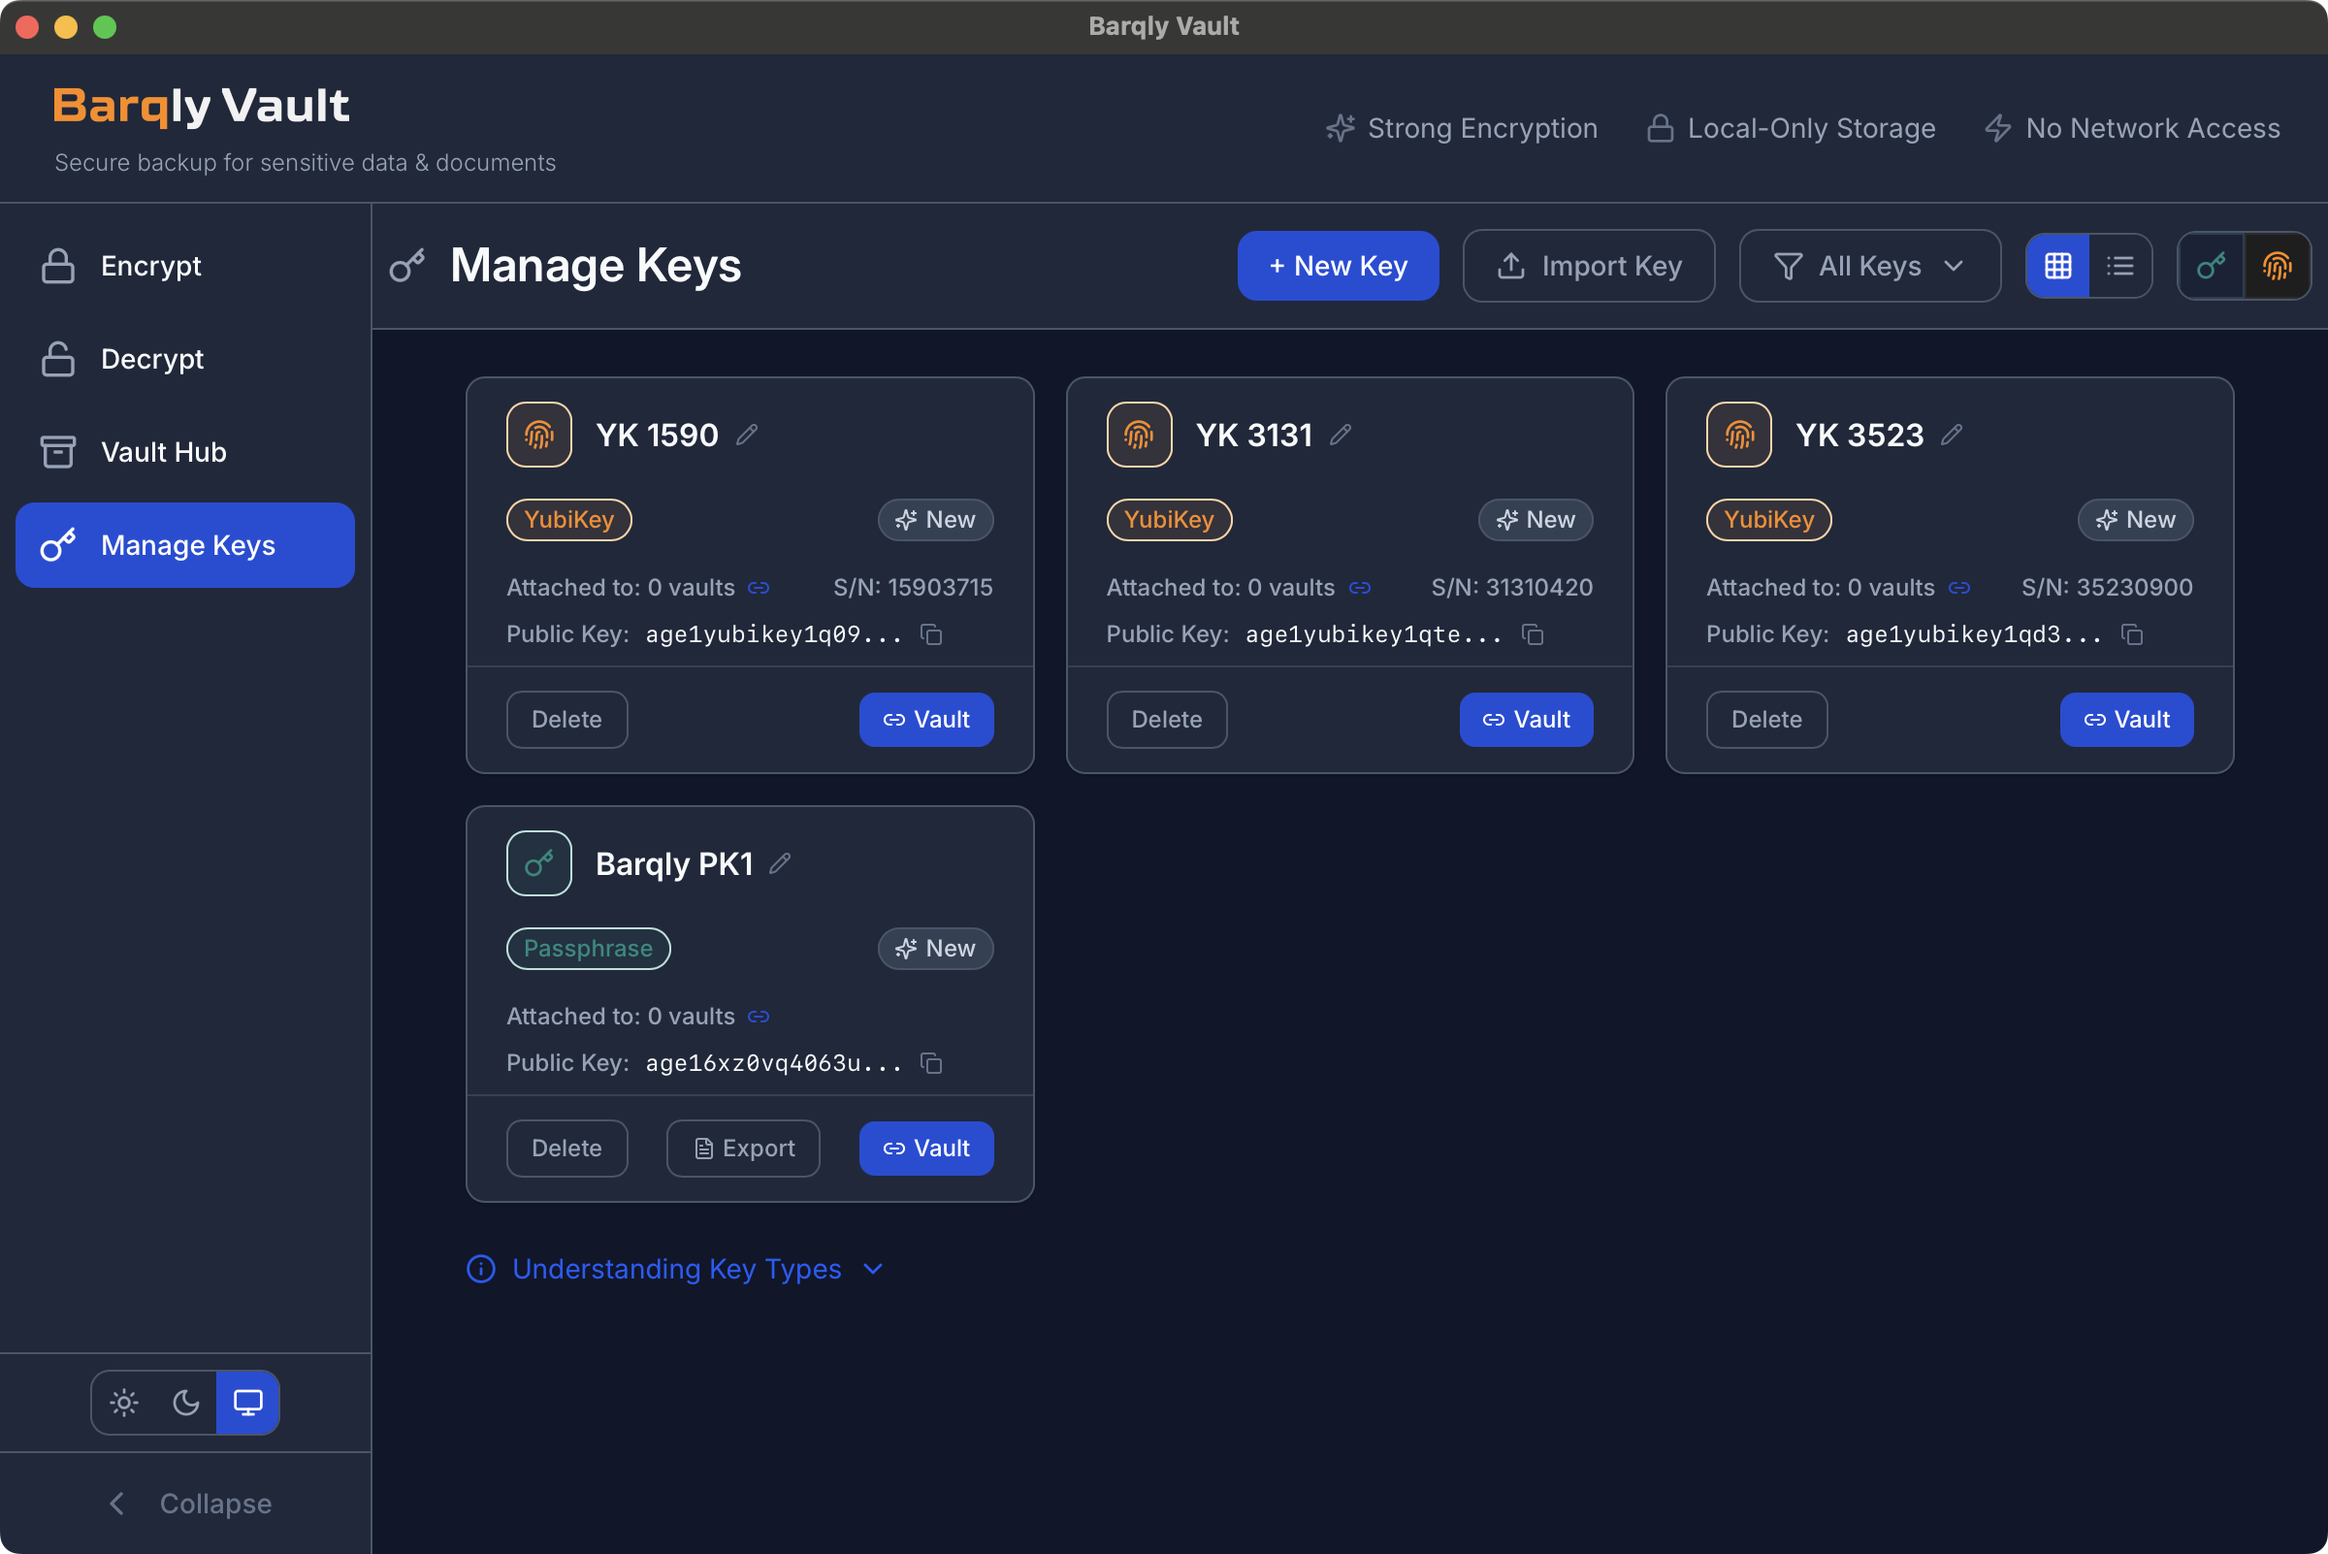
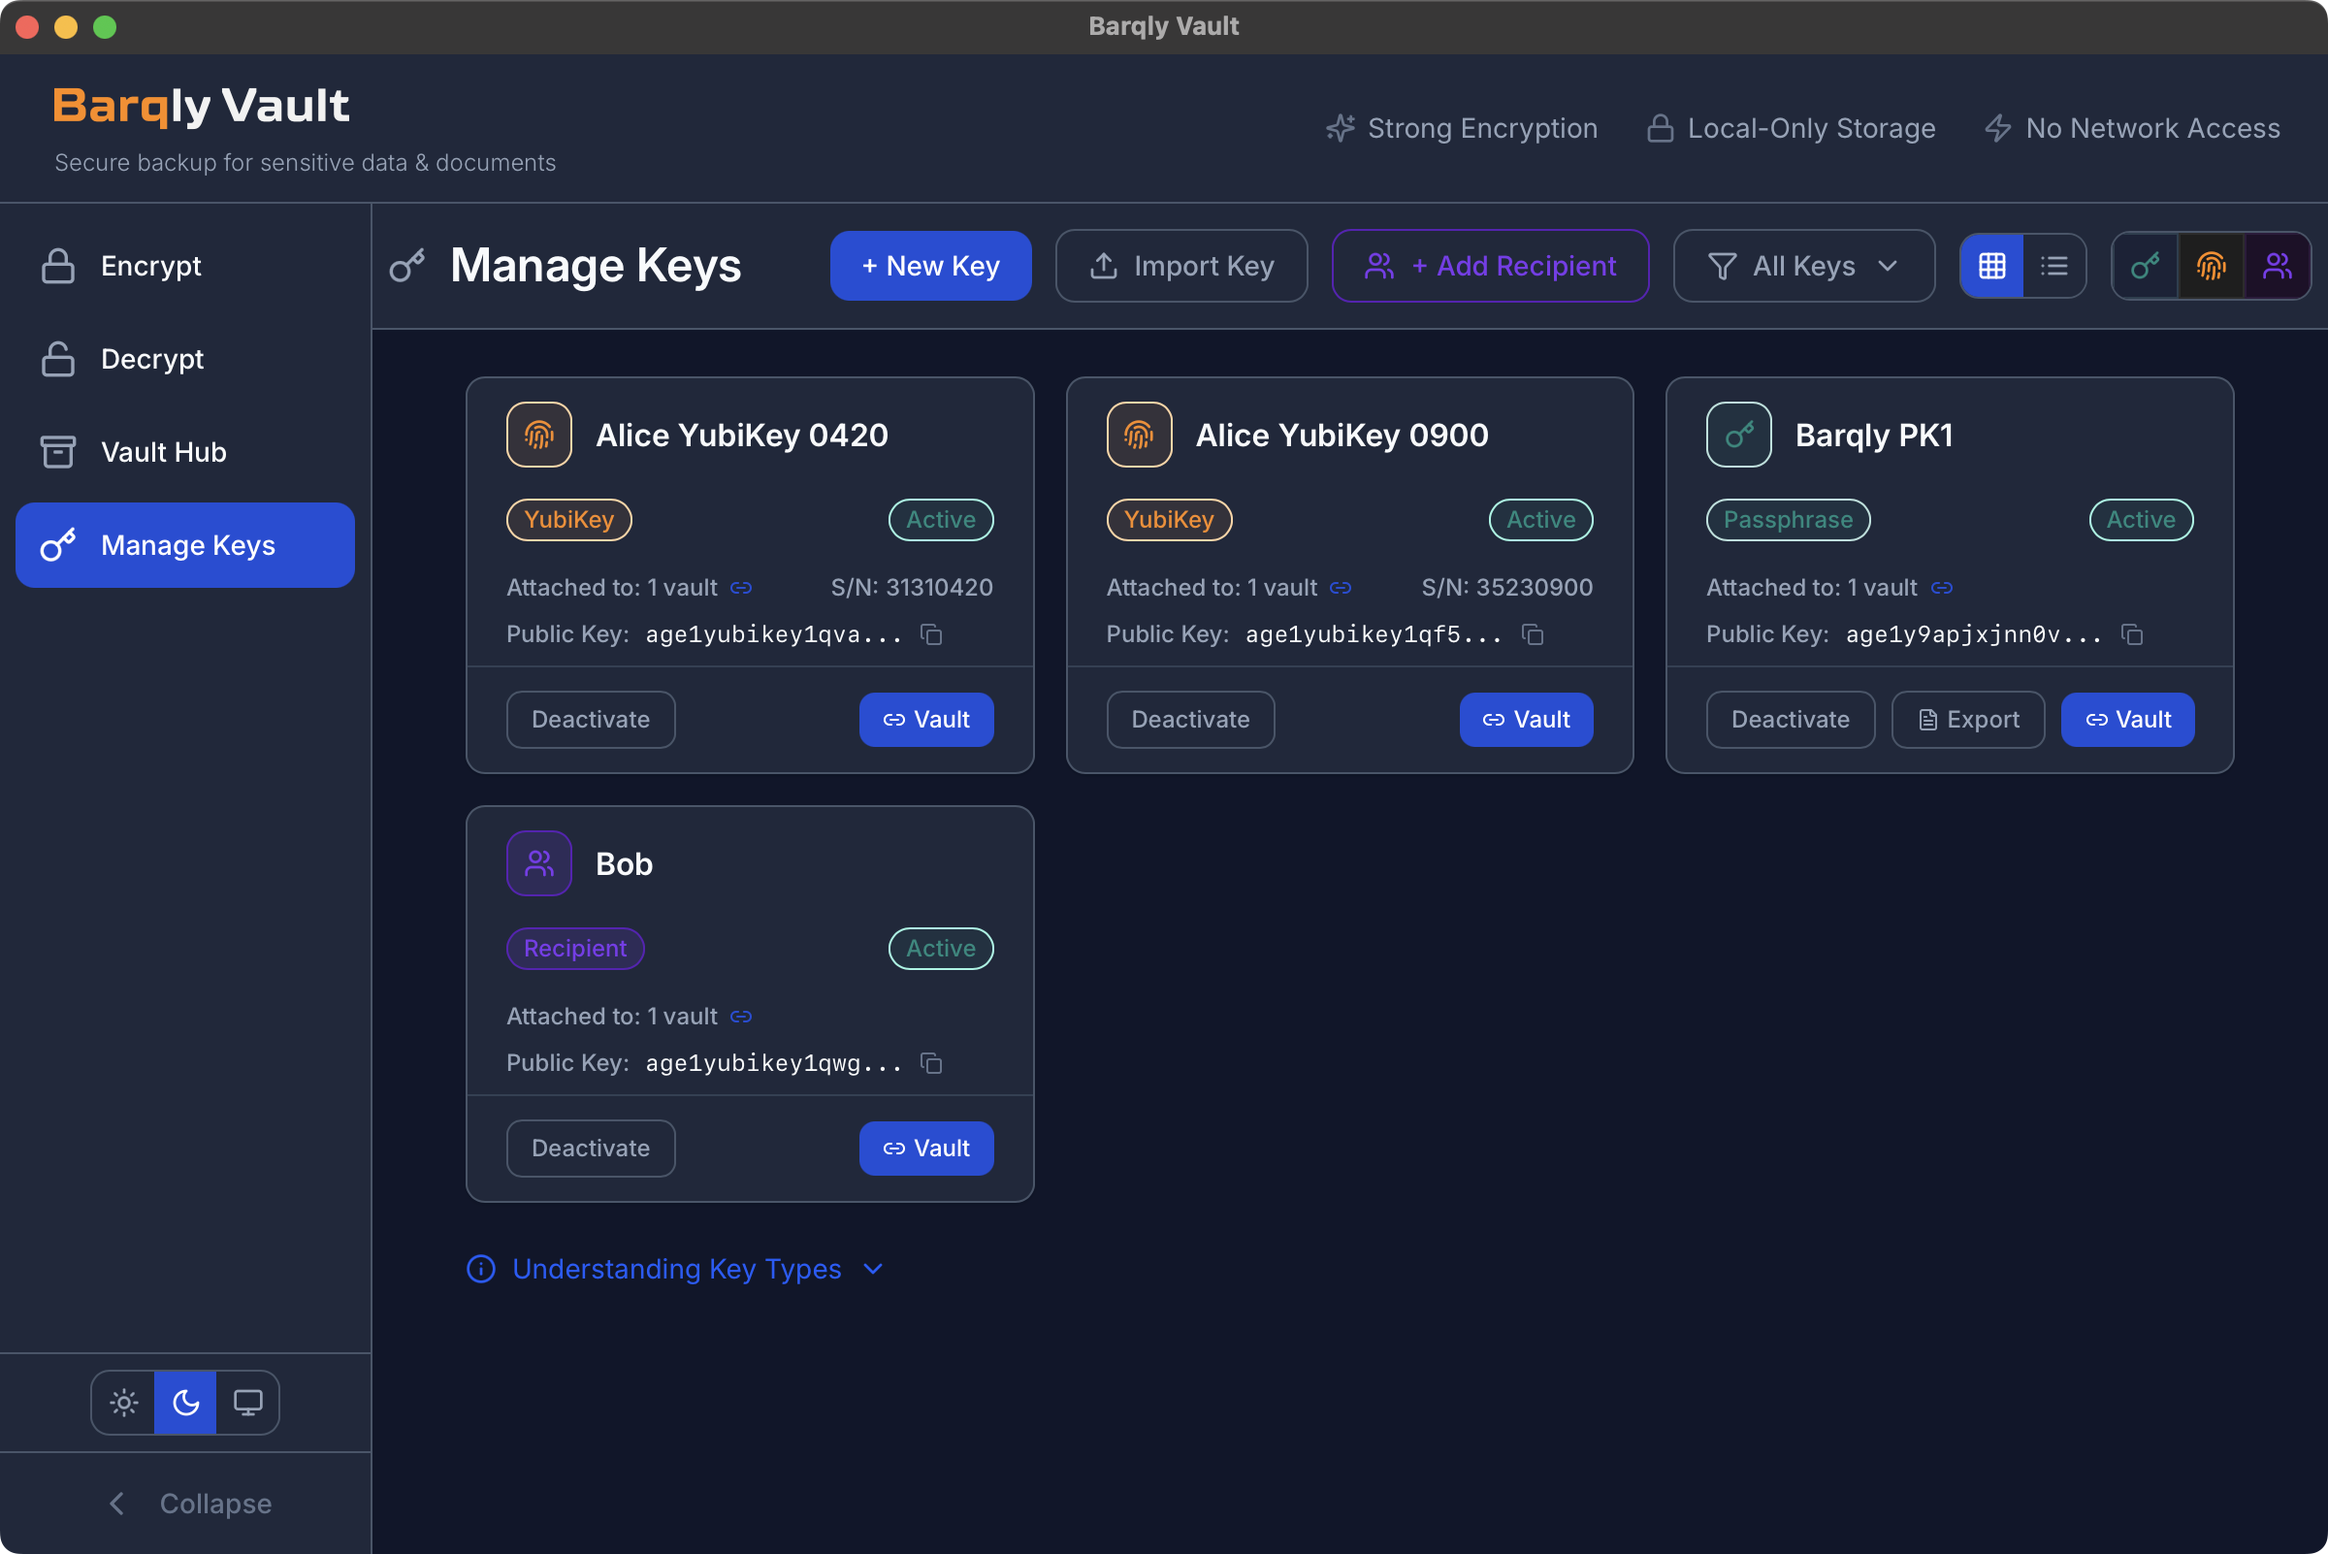
docs(website): update for v0.2.2 release
- Update version badges to v0.2.2 (index, donate, recovery pages)
- Add secure sharing to "What is Barqly Vault?" definition
- Add "Secure sharing" to "Why Barqly Vault?" section
- Add "Recipient sharing" to Features → Key Management
- Broaden examples to include taproot scripts and confidential documents
- Update screenshots for Manage Keys and Vault Hub screens

diff --git a/public-docs/index.html b/public-docs/index.html
@@ -623,7 +623,7 @@
       <div class="header">
         <div class="logo-container">
           <img src="assets/barqly-vault-logo-dark.svg" alt="Barqly Vault" class="logo">
-          <p style="font-size: 0.9rem; color: var(--text-muted); margin-top: 0.5rem; text-align: center;">v0.2.1</p>
+          <p style="font-size: 0.9rem; color: var(--text-muted); margin-top: 0.5rem; text-align: center;">v0.2.2</p>
         </div>
         <p class="tagline">
           Offline-first, open-source file encryption for desktop.
@@ -636,7 +636,7 @@
       <div class="section">
         <h2>What is Barqly Vault?</h2>
         <p>
-          Barqly Vault is an <strong>offline-first, open-source desktop application</strong> for encrypting and decrypting sensitive documents — such as Bitcoin wallet descriptors, manifests, and configuration files — using multiple keys (<strong>YubiKeys and/or passphrases</strong>).
+          Barqly Vault is an <strong>offline-first, open-source desktop application</strong> for encrypting, decrypting, and securely sharing sensitive documents — such as Bitcoin wallet descriptors, taproot scripts, or other confidential documents — using multiple keys (<strong>YubiKeys and/or passphrases</strong>).
         </p>
       </div>
 
@@ -645,6 +645,7 @@
         <ul>
           <li><strong>Offline-first:</strong> All operations are local.</li>
           <li><strong>Multi-key model:</strong> Use hardware keys (YubiKey), passphrases, or both.</li>
+          <li><strong>Secure sharing:</strong> Share encrypted files with anyone using their public key.</li>
           <li><strong>Cross-platform:</strong> Desktop app for macOS, Linux, and Windows.</li>
           <li><strong>Open source:</strong> Transparent codebase and workflows.</li>
         </ul>
@@ -665,6 +666,7 @@
         <ul>
           <li>Key export/import: Backup and restore individual keys across machines using standard .agekey.enc format.</li>
           <li>Key lifecycle tracking: NIST-aligned states (PreActivation → Active → Suspended → Deactivated).</li>
+          <li>Recipient sharing: Add external recipients by public key for secure file sharing — no private key exchange needed.</li>
           <li>Disaster recovery mode: Auto-detects when vault metadata is missing; restores from encrypted bundle.</li>
         </ul>
 

diff --git a/public-docs/donate/index.html b/public-docs/donate/index.html
@@ -477,7 +477,7 @@
         <div class="header">
           <div class="logo-container">
             <img src="../assets/barqly-vault-logo-dark.svg" alt="Barqly Vault" class="logo">
-            <p style="font-size: 0.9rem; color: var(--text-muted); margin-top: 0.5rem; text-align: center;">v0.2.1</p>
+            <p style="font-size: 0.9rem; color: var(--text-muted); margin-top: 0.5rem; text-align: center;">v0.2.2</p>
           </div>
           <p class="tagline">
             Open source is freedom. Your support keeps it that way.

diff --git a/public-docs/recovery/index.html b/public-docs/recovery/index.html
@@ -521,7 +521,7 @@
         <div class="header">
           <div class="logo-container">
             <img src="../assets/barqly-vault-logo-dark.svg" alt="Barqly Vault" class="logo">
-            <p style="font-size: 0.9rem; color: var(--text-muted); margin-top: 0.5rem; text-align: center;">v0.2.1</p>
+            <p style="font-size: 0.9rem; color: var(--text-muted); margin-top: 0.5rem; text-align: center;">v0.2.2</p>
           </div>
           <h1 style="font-size: x-large;">Recovery Guide</h1>
           <p class="tagline">
